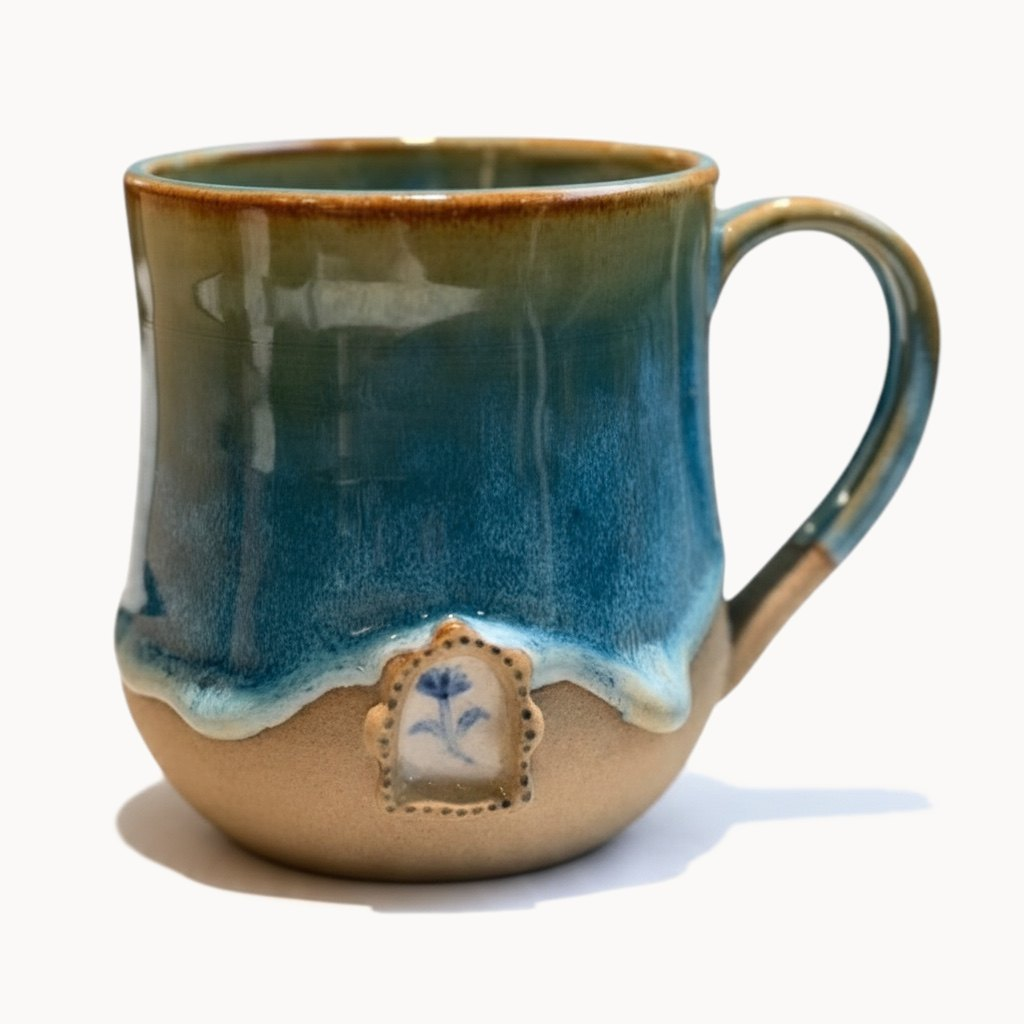
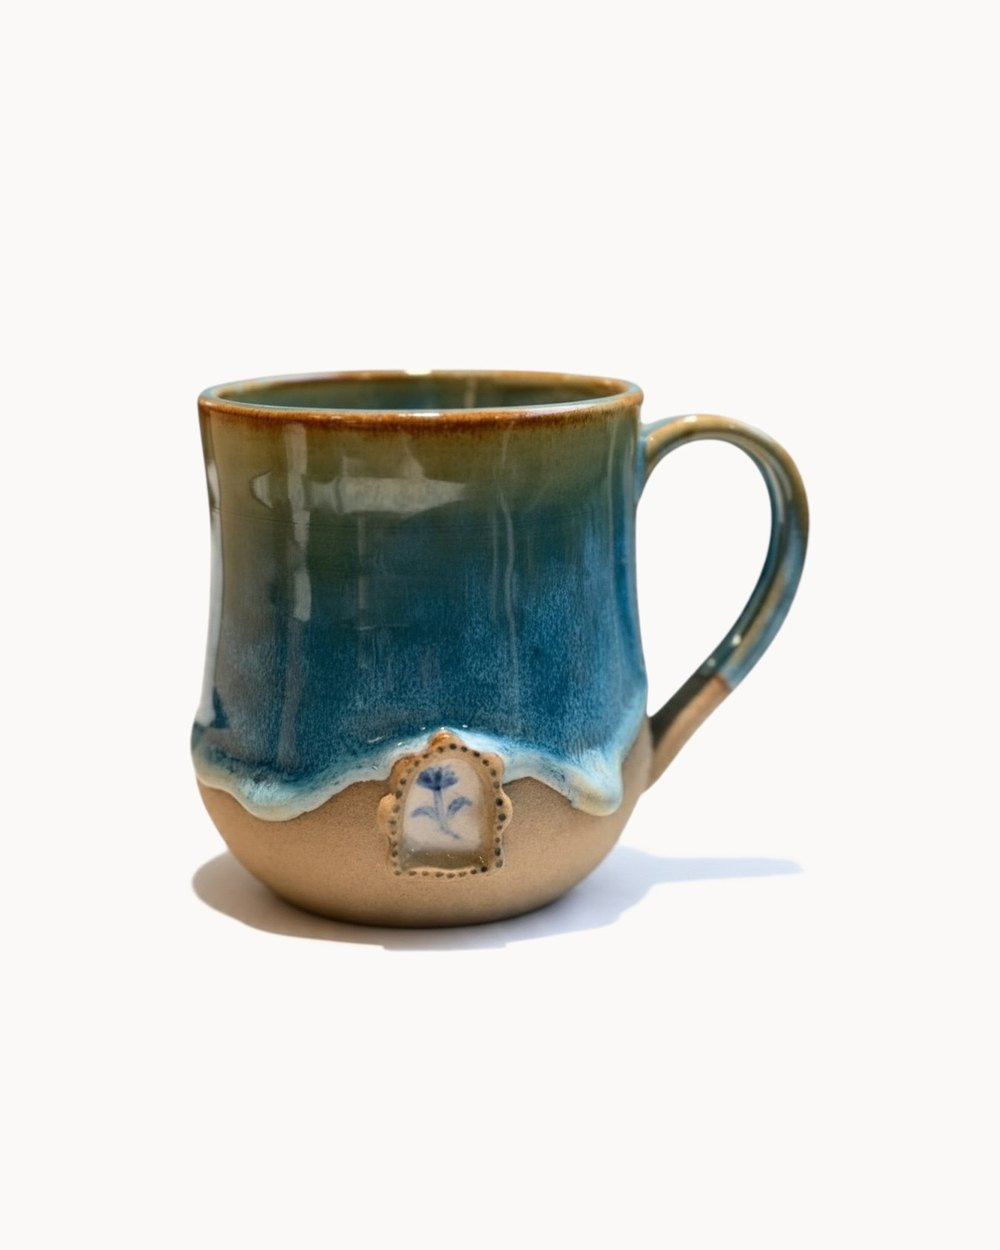
Match product photo heights; rename to 'كوب أميرة الشاطئ'
- Both product photos re-framed on a 4:5 canvas so each piece (rim to
  foot, shadow excluded) has the same height and sits on the same baseline
- Card buttons pin to the bottom so they line up when a name wraps

Claude-Session: https://claude.ai/code/session_01VLPaYpbvmNCG6Chs1C3U4G

diff --git a/lib/products.ts b/lib/products.ts
@@ -26,7 +26,7 @@ export const PRODUCTS: Product[] = [
   { slug: "beach-princess-mug", name: "Beach Princess Mug", price: 799, category: "Cups & mugs", glaze: "#2F6E86", image: "beach-princess", gallery: ["beach-princess"],
     description: "A handmade mug in a deep ocean-blue glaze that melts down onto bare sandy clay like a wave meeting the shore, with a small window framing a hand-painted blue flower.",
     details: "Handmade mug · Glazed stoneware · Each piece varies slightly in glaze and form.",
-    ar: { name: "أميرة الشاطئ", description: "كوب مصنوع يدوياً بطلاء أزرق عميق يذوب نحو الأسفل كموجة تلامس الرمل، مع نافذة صغيرة تحتضن زهرة زرقاء مرسومة باليد.", details: "كوب مصنوع يدوياً · خزف مطليّ · تختلف كل قطعة قليلاً في الطلاء والشكل." } },
+    ar: { name: "كوب أميرة الشاطئ", description: "كوب مصنوع يدوياً بطلاء أزرق عميق يذوب نحو الأسفل كموجة تلامس الرمل، مع نافذة صغيرة تحتضن زهرة زرقاء مرسومة باليد.", details: "كوب مصنوع يدوياً · خزف مطليّ · تختلف كل قطعة قليلاً في الطلاء والشكل." } },
 ];
 
 export const CATEGORIES: Category[] = ["Cups & mugs", "Plates", "Bowls", "Vases", "Gift sets"];

diff --git a/app/globals.css b/app/globals.css
@@ -212,7 +212,7 @@ textarea.input { height: 140px; padding-top: 14px; resize: vertical; }
 .mainpic img, .pcard .photo img, .thumbs img { object-fit: contain; }
 .thumbs button.on { border-color: var(--ink); }
 .pcard .pcard-info { display: flex; flex-direction: column; gap: 4px; }
-.pcard .btn.block { margin-top: 4px; }
+.pcard .btn.block { margin-top: auto; }
 .tamara { display: flex; gap: 10px; align-items: center; margin-top: 10px; padding: 12px 14px; background: #fff; border: 1px solid var(--line); border-radius: 8px; font-size: 14px; }
 .qty { display: flex; align-items: center; height: 52px; border: 1px solid var(--line); border-radius: 8px; background: #fff; }
 .qty button { width: 44px; height: 100%; font-size: 18px; }
